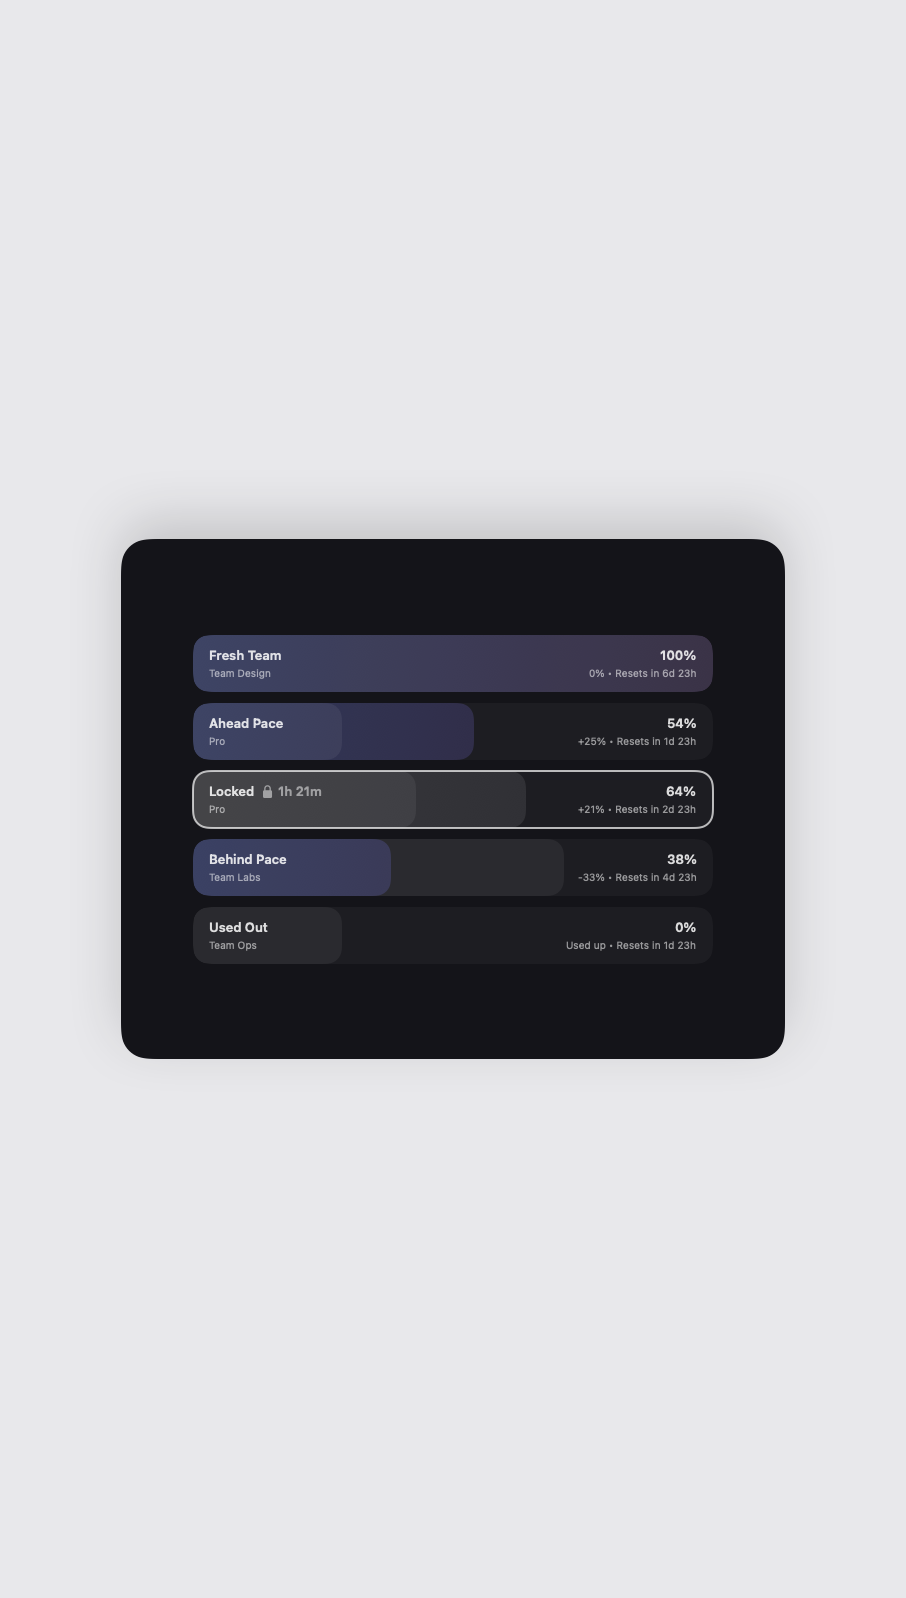
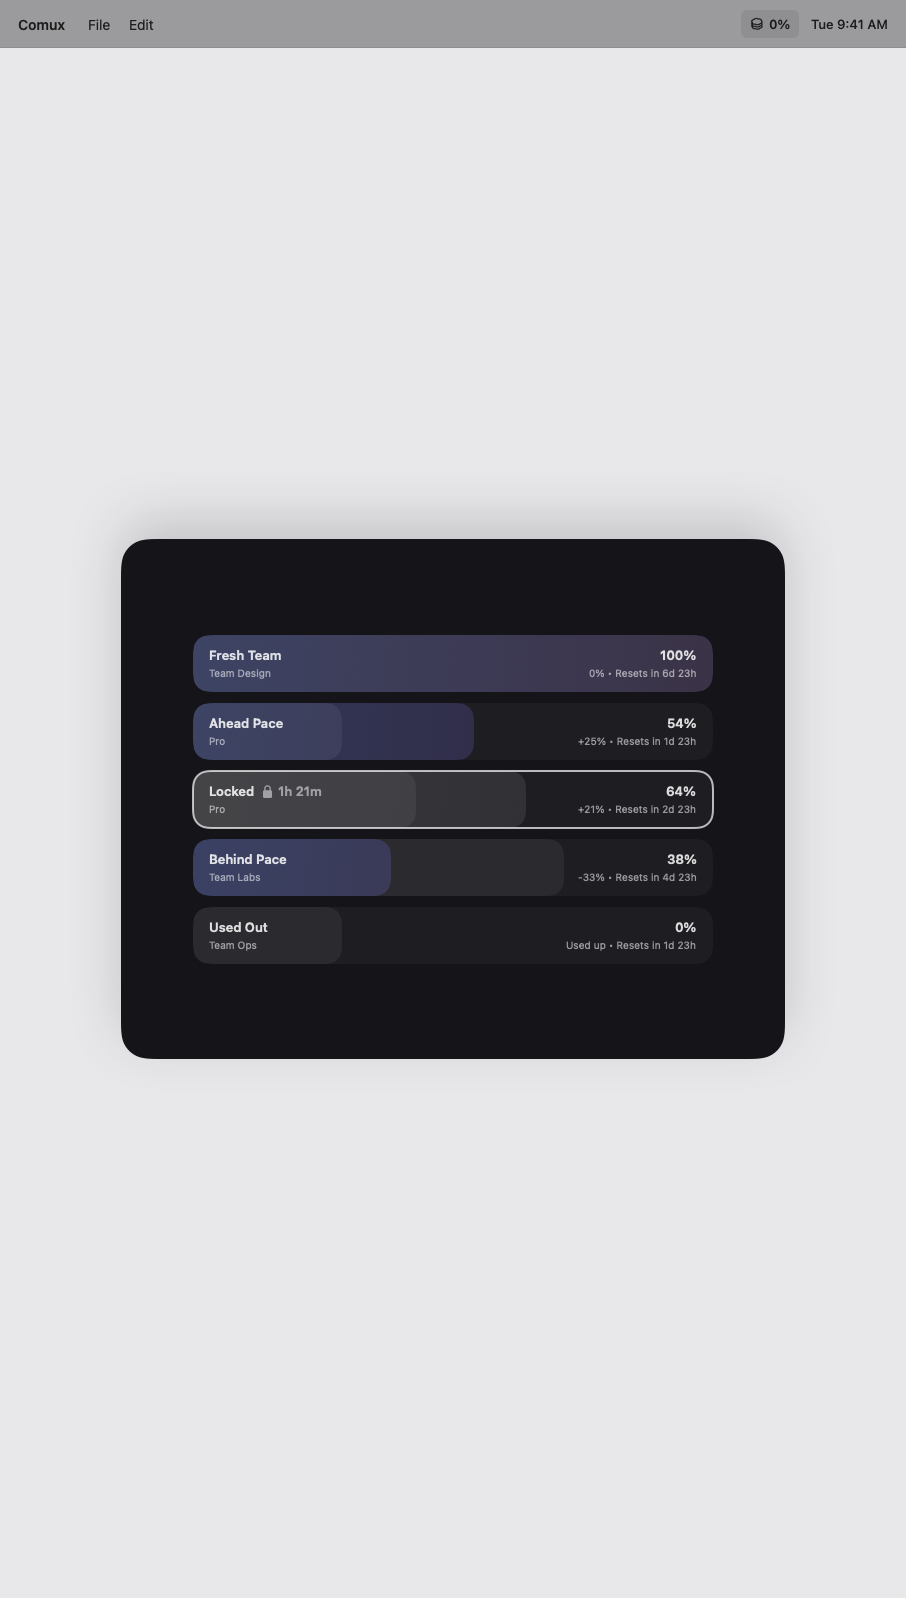
feat: show menu bar usage in demo mockup

Changed region(s): [[0.0, 0.0, 1.0, 0.0307]]

diff --git a/tools/DemoMockup.swift b/tools/DemoMockup.swift
@@ -2,10 +2,12 @@ import AppKit
 import SwiftUI
 
 private let canvasSize = CGSize(width: 906, height: 1598)
+private let menuBarHeight: CGFloat = 48
 private let cardWidth: CGFloat = 520
 private let cardSpacing: CGFloat = 12
 private let horizontalPadding: CGFloat = 72
 private let verticalPadding: CGFloat = 96
+private let iconPath = "assets/icon.png"
 
 @main
 @MainActor
@@ -53,8 +55,72 @@ private struct DemoMockupView: View {
                     .shadow(color: .black.opacity(0.16), radius: 28, x: 0, y: 18)
             )
         }
+        .overlay(alignment: .top) {
+            menuBar
+        }
         .frame(width: canvasSize.width, height: canvasSize.height)
         .preferredColorScheme(.dark)
+    }
+
+    private var menuBar: some View {
+        HStack(spacing: 0) {
+            Text("Comux")
+                .font(.system(size: 14, weight: .semibold))
+
+            Text("File")
+                .font(.system(size: 14))
+                .padding(.leading, 22)
+
+            Text("Edit")
+                .font(.system(size: 14))
+                .padding(.leading, 18)
+
+            Spacer()
+
+            HStack(spacing: 4) {
+                menuBarIcon
+
+                if let usageText = menuBarUsageText(from: accounts) {
+                    Text(usageText)
+                        .font(.system(size: 13, weight: .semibold))
+                        .monospacedDigit()
+                }
+            }
+            .padding(.horizontal, 8)
+            .frame(height: 28)
+            .background(
+                RoundedRectangle(cornerRadius: 6, style: .continuous)
+                    .fill(Color.black.opacity(0.08))
+            )
+
+            Text("Tue 9:41 AM")
+                .font(.system(size: 13, weight: .medium))
+                .padding(.leading, 12)
+        }
+        .foregroundStyle(Color.black.opacity(0.82))
+        .padding(.horizontal, 18)
+        .frame(width: canvasSize.width, height: menuBarHeight)
+        .background(.ultraThinMaterial)
+        .overlay(alignment: .bottom) {
+            Rectangle()
+                .fill(Color.black.opacity(0.08))
+                .frame(height: 1)
+        }
+    }
+
+    private var menuBarIcon: some View {
+        Group {
+            if let image = NSImage(contentsOfFile: iconPath) {
+                Image(nsImage: image)
+                    .resizable()
+                    .renderingMode(.template)
+            } else {
+                Image(systemName: "gauge.with.needle")
+                    .resizable()
+            }
+        }
+        .foregroundStyle(Color.black.opacity(0.82))
+        .frame(width: 16, height: 16)
     }
 }
 
